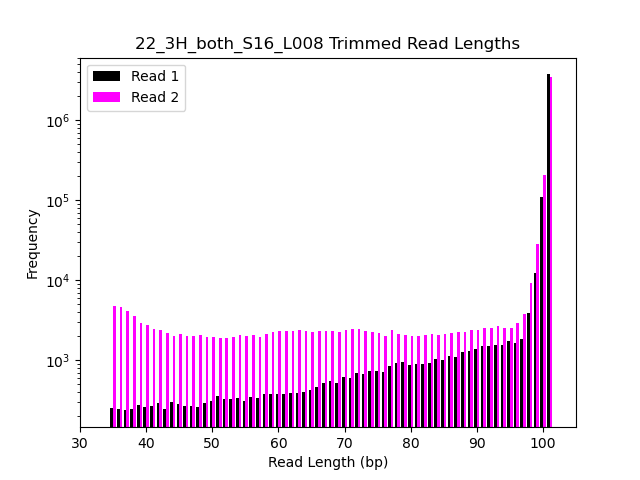
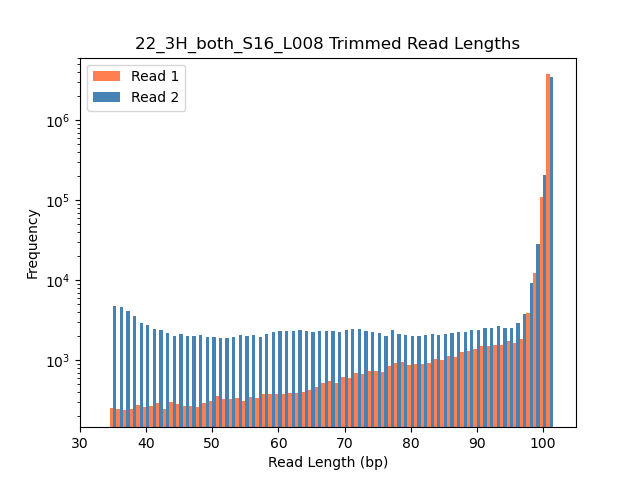
20240910

Changed region(s): [[0.1562, 0.1562, 0.875, 0.9062], [0.125, 0.125, 0.1875, 0.2188]]

diff --git a/scripts/ldist.py b/scripts/ldist.py
@@ -47,8 +47,8 @@ for i in range(len(ldists[0])):
     else: break
 xlow = (xlow//10)*10 
 x_ax = np.arange(len(ldists[0]))
-plt.bar(x_ax-0.2,ldists[0],0.4,color="black",label="Read 1")
-plt.bar(x_ax+0.2,ldists[1],0.4,color="magenta",label = "Read 2")
+plt.bar(x_ax-0.25,ldists[0],0.5,color="coral",label="Read 1")
+plt.bar(x_ax+0.25,ldists[1],0.5,color="steelblue",label = "Read 2")
 plt.xlabel("Read Length (bp)")
 plt.ylabel("Frequency")
 plt.yscale("log")

diff --git a/scripts/mapcount.py b/scripts/mapcount.py
@@ -30,5 +30,5 @@ with open(FILE,'r') as f:
                     unmapped += 1
                 
         line = f.readline().strip().split()
-print(f"mapped: {mapped}, unmapped: {unmapped}")
+print(f"mapped: {mapped}, unmapped: {unmapped}, total: {mapped+unmapped}")
 

diff --git a/LabNotebook.md b/LabNotebook.md
@@ -122,7 +122,12 @@ TrimmomaticPE: Completed successfully
 	Percent of CPU this job got: 211%
 	Elapsed (wall clock) time (h:mm:ss or m:ss): 16:29.23
 ```
+- Wrote and ran [ldist.py](./scripts/ldist.py) to map trimmed read lengths and ran on each pair of reads
+```
+$ python scripts/ldist.py -1 ./trimmer_out/22_3H_both_S16_L008_1P.fastq.gz -2 ./trimmer_out/22_3H_both_S16_L008_2P.fastq.gz -p ./ -o 22_3H_both_S16_L008 -t 22_3H_both_S16_L008
 
+$ python scripts/ldist.py -1 ./trimmer_out/23_4A_control_S17_L008_1P.fastq.gz -2 ./trimmer_out/23_4A_control_S17_L008_2P.fastq.gz -p ./ -o 23_4A_control_S17_L008 -t 23_4A_control_S17_L008
+```
 ### Next Steps
 
 ---
@@ -178,10 +183,10 @@ Command being timed: "STAR --runThreadN 8 --runMode alignReads --outFilterMultim
 - Ran [mapcount.py](./scripts/mapcount.py) (copied from .../PS8/PS8.py) on each aligned SAM file
 ```
 $ python ./scripts/mapcount.py -f ./aligned/22_3H_both_S16_L008Aligned.out.sam
-mapped: 7621872, unmapped: 181322
+mapped: 7621872, unmapped: 181322, total: 7803194
 
 $ python ./scripts/mapcount.py -f ./aligned/23_4A_control_S17_L008Aligned.out.sam
-mapped: 79158404, unmapped: 4993880
+mapped: 79158404, unmapped: 4993880, total: 84152284
 ```
 - Submitted sbatch scripts for htseq-count commands
 ```
@@ -208,7 +213,7 @@ Command being timed: "htseq-count --stranded=reverse /projects/bgmp/rza/bioinfo/
 	Percent of CPU this job got: 99%
 	Elapsed (wall clock) time (h:mm:ss or m:ss): 54:39.89
 ```
-- Summed up map counts using awk:
+- Summed up htseq counts with the following bash commands:
 ```
 $ cat htseq22-3H_fw.txt | grep -v "__" | awk '{sum+=$2} END {print sum}'
 142603
@@ -216,6 +221,8 @@ $ cat htseq22-3H_rv.txt | grep -v "__" | awk '{sum+=$2} END {print sum}'
 3370858
 $ cat htseq22-3H_*.txt | grep -v "__" | awk '{sum+=$2} END {print sum}'
 3513461
+$ cat htseq22-3H*.txt | awk '{sum += $2} END {print sum}'
+7803194
 
 $ cat htseq23-4A_fw.txt | grep -v "__" | awk '{sum += $2} END {print sum}' 
 1324268
@@ -223,13 +230,18 @@ $ cat htseq23-4A_rv.txt | grep -v "__" | awk '{sum += $2} END {print sum}'
 32827759
 $ cat htseq23-4A_*.txt | grep -v "__" | awk '{sum += $2} END {print sum}' 
 34152027
+$ cat htseq23-4A_*.txt | awk '{sum += $2} END {print sum}'
+84152284
 ```
-- Wrote [ldist.py](./scripts/ldist.py) to map trimmed read lengths and ran on each pair of reads
-```
-$ python scripts/ldist.py -1 ./trimmer_out/22_3H_both_S16_L008_1P.fastq.gz -2 ./trimmer_out/22_3H_both_S16_L008_2P.fastq.gz -p ./ -o 22_3H_both_S16_L008 -t 22_3H_both_S16_L008
 
-$ python scripts/ldist.py -1 ./trimmer_out/23_4A_control_S17_L008_1P.fastq.gz -2 ./trimmer_out/23_4A_control_S17_L008_2P.fastq.gz -p ./ -o 23_4A_control_S17_L008 -t 23_4A_control_S17_L008
 ```
+$ python ./scripts/mapcount.py -f ./aligned/22_3H_both_S16_L008Aligned.out.sam
+mapped: 7621872, unmapped: 181322, total: 7803194
+
+$ python ./scripts/mapcount.py -f ./aligned/23_4A_control_S17_L008Aligned.out.sam
+mapped: 79158404, unmapped: 4993880, total: 84152284
+```
+
 ### Next Steps
 
 ---
